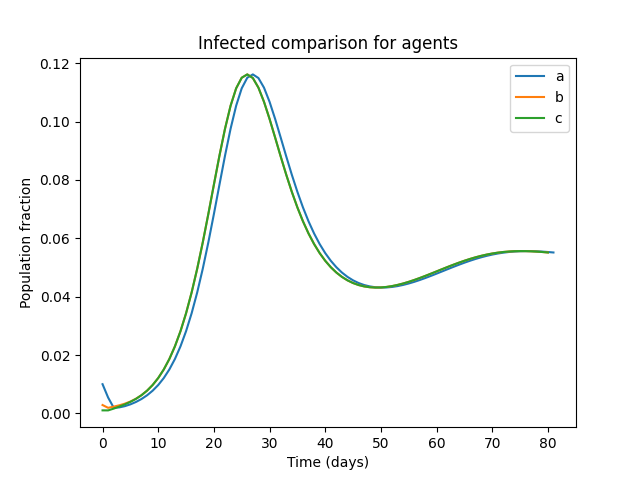
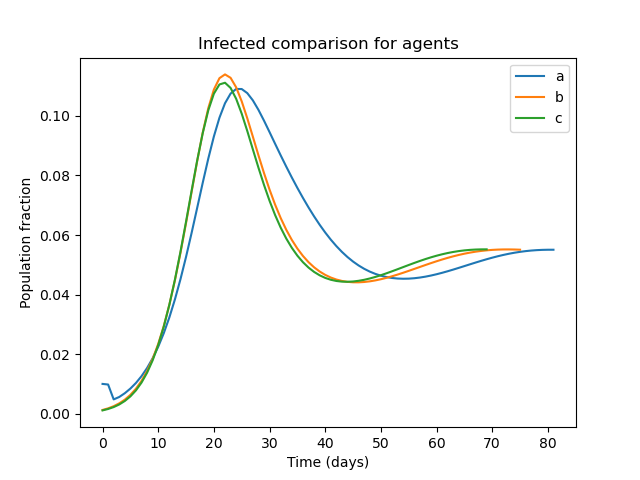
moved next_state

diff --git a/agent.py b/agent.py
@@ -18,9 +18,12 @@ class Agent(ABC):
 	
 	def update_history(self, state):
 
+		print(state.to_array)
+
 		self.__history.append(state.to_array)
 
 	def set_state(self, state):
+		print(self.state)
 
 		self.state=state
 
@@ -62,19 +65,9 @@ class Agent(ABC):
 
 		pass
 
-	@property
+	#@property
 	def next_state(self):
-
-		S, E, I, R, N = self.state.to_array
-
-		a, b, g, d, r = [*self.parameters.values()]
-		
-		next_S = S - (r * b * S * I) + (d * R)  # Add fraction of recovered compartment.
-		next_E = E + (r * b * S * I - a * E)
-		next_I = I + (a * E - g * I)
-		next_R = R + (g * I) - (d * R)  # Remove fraction of recovered compartment.
-
-		return State(next_S, next_E, next_I, next_R, N)
+		pass
 
 
 class Nation(Agent):
@@ -95,6 +88,19 @@ class Nation(Agent):
 
 		return self,conn_agents
 
+	@property
+	def next_state(self):
 
+		S, E, I, R, N = self.state.to_array
+
+		a, b, g, d, r = [*self.parameters.values()]
+		
+		next_S = S - (r * b * S * I) + (d * R)  # Add fraction of recovered compartment.
+		next_E = E + (r * b * S * I - a * E)
+		next_I = I + (a * E - g * I)
+		next_R = R + (g * I) - (d * R)  # Remove fraction of recovered compartment.
+
+		print(State(next_S, next_E, next_I, next_R, N))
+		return State(next_S, next_E, next_I, next_R, N)
 
 

diff --git a/main.py b/main.py
@@ -2,7 +2,8 @@ import numpy
 import json
 import argparse 
 
-from agent import Agent, Nation, NationCities 
+from agent import Agent, Nation
+#from nation_cities import NationCities 
 from utils import check_file, load_JSON
 from plots import plot_compartment_comparison
 
@@ -50,6 +51,7 @@ for i in range(settings['iterations']):
 
 	
 	for agent in agents:
+
 		agents[agent].set_state(agents[agent].next_state)
 		
 
